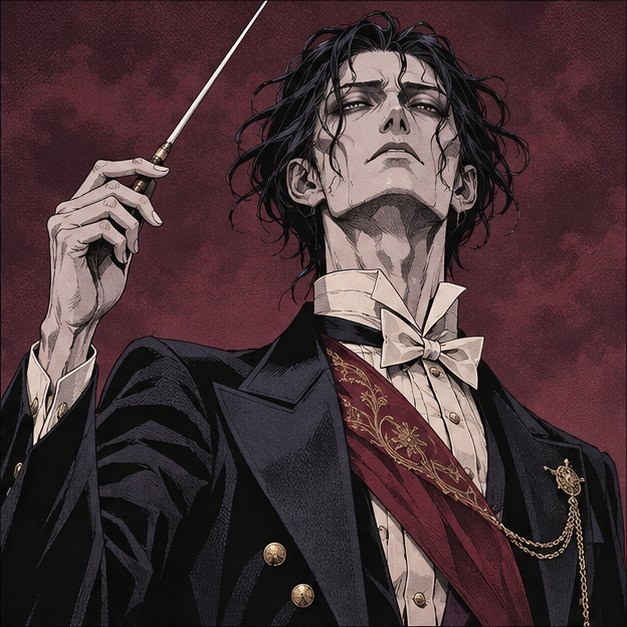
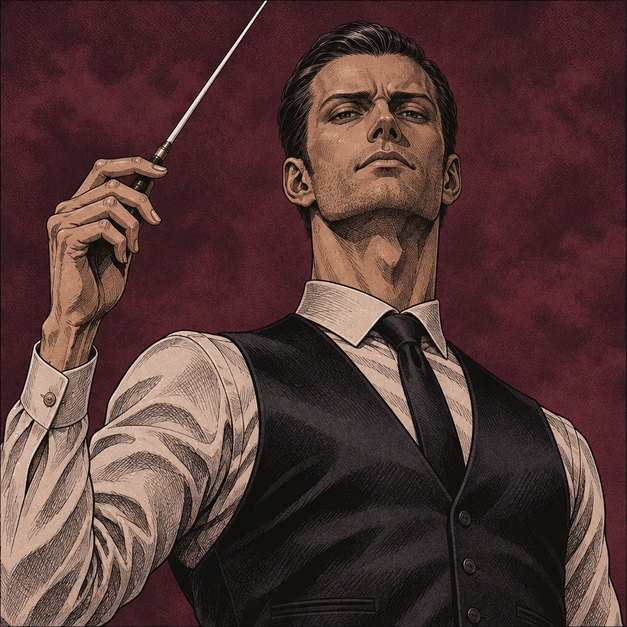
Landing area: Rin before the tower, the words and sign-up on the right
The home page's landing area is now one picture: the tower with Rin standing
at the left and no lettering (hero-rin, made from the key art). The logo, the
headline, the sign-up, the description and the buttons are laid over its dark
right side. On narrow screens Rin and the tower show at the top and the words
follow underneath. The cast pictures of the Conductor and the Porter are
refreshed from their new portraits.

diff --git a/docs/index.html b/docs/index.html
@@ -15,7 +15,7 @@
 <link rel="alternate" type="application/rss+xml" title="Cut Cut Cut dev log" href="feed.xml">
 <link rel="preconnect" href="https://fonts.googleapis.com"><link rel="preconnect" href="https://fonts.gstatic.com" crossorigin>
 <link href="https://fonts.googleapis.com/css2?family=Barlow+Condensed:ital,wght@0,600;0,700;1,800;1,900&family=Inter:wght@400;500;600;700&display=swap" rel="stylesheet">
-<link rel="stylesheet" href="style.css?v=1d2e549a">
+<link rel="stylesheet" href="style.css?v=e51144ca">
 <link rel="stylesheet" href="pondd-character/character.css">
 <script type="importmap">{"imports":{"three":"https://cdn.jsdelivr.net/npm/three@0.160.0/build/three.module.js","three/addons/":"https://cdn.jsdelivr.net/npm/three@0.160.0/examples/jsm/"}}</script>
 <script type="module" src="pondd-character/init.js"></script>
@@ -30,22 +30,24 @@
   <nav class="nav"><a href="game.html">The Game</a><a href="making.html">How It&#x27;s Made</a><a href="media.html">Media</a><a href="timeline.html">Timeline</a><a href="devlog/index.html">Dev Log</a></nav>
 </header>
 <main id="main">
-<section class="hero">
-  <div class="bg" style="background-image:url(media/img/backdrop.jpg)"></div>
+<section class="hero hero-right">
+  <div class="bg" style="background-image:url(media/img/hero-rin.jpg)"></div>
   <div class="hero-in">
-    <img class="hero-logo" src="media/img/logo.png" alt="Cut Cut Cut">
-    <p class="kicker">100 Floors of Zombies</p>
-    <h1>They sold a home where nobody dies. <em>It delivered.</em></h1>
-    <div class="hero-signup" id="signup">
-      <p class="hero-signup-head">Get told when the beta opens</p>
-      <form class="signup in-hero" action="https://app.kit.com/forms/10202332/subscriptions" method="post" target="_blank" novalidate><div class="signup-row"><label class="sr" for="su-email-hero">Email address</label><input id="su-email-hero" type="email" name="email_address" placeholder="you@example.com" autocomplete="email" required><button class="btn red" type="submit"><span>Notify me</span></button></div><fieldset class="signup-phone"><legend>I play on</legend><label class="pick"><input type="radio" name="tags[]" value="25999112" required><span>iPhone</span></label><label class="pick"><input type="radio" name="tags[]" value="25999113" required><span>Android</span></label></fieldset><p class="signup-note">One email when the beta opens and one at launch. We will send a confirmation email first; unsubscribe any time.</p><p class="signup-msg" role="status" aria-live="polite" hidden></p></form>
+    <div class="hero-text">
+      <img class="hero-logo" src="media/img/logo.png" alt="Cut Cut Cut">
+      <p class="kicker">100 Floors of Zombies</p>
+      <h1>They sold a home where nobody dies. <em>It delivered.</em></h1>
+      <div class="hero-signup" id="signup">
+        <p class="hero-signup-head">Get told when the beta opens</p>
+        <form class="signup in-hero" action="https://app.kit.com/forms/10202332/subscriptions" method="post" target="_blank" novalidate><div class="signup-row"><label class="sr" for="su-email-hero">Email address</label><input id="su-email-hero" type="email" name="email_address" placeholder="you@example.com" autocomplete="email" required><button class="btn red" type="submit"><span>Notify me</span></button></div><fieldset class="signup-phone"><legend>I play on</legend><label class="pick"><input type="radio" name="tags[]" value="25999112" required><span>iPhone</span></label><label class="pick"><input type="radio" name="tags[]" value="25999113" required><span>Android</span></label></fieldset><p class="signup-note">One email when the beta opens and one at launch. We will send a confirmation email first; unsubscribe any time.</p><p class="signup-msg" role="status" aria-live="polite" hidden></p></form>
+      </div>
+      <p class="sub">An isometric sword game for iPhone. Rin, a dismissed bodyguard, climbs a sealed 100-floor tower with her family's sword, one room at a time. The residents are still at work. They would like you to stop calling them zombies.</p>
+      <div class="cta">
+        <a class="btn" href="#play"><span>See it in play</span></a>
+        <a class="btn" href="devlog/index.html"><span>Read the dev log</span></a>
+      </div>
+      <div class="status"><i></i> In development · iPhone, landscape · Build 0.1 on TestFlight</div>
     </div>
-    <p class="sub">An isometric sword game for iPhone. Rin, a dismissed bodyguard, climbs a sealed 100-floor tower with her family's sword, one room at a time. The residents are still at work. They would like you to stop calling them zombies.</p>
-    <div class="cta">
-      <a class="btn" href="#play"><span>See it in play</span></a>
-      <a class="btn" href="devlog/index.html"><span>Read the dev log</span></a>
-    </div>
-    <div class="status"><i></i> In development · iPhone, landscape · Build 0.1 on TestFlight</div>
   </div>
 </section>
 

diff --git a/docs/style.css b/docs/style.css
@@ -40,6 +40,18 @@ code { font: 500 0.88em ui-monospace, SFMono-Regular, Menlo, monospace; backgrou
 .hero::after { content: ""; position: absolute; inset: 0; z-index: -1; background: linear-gradient(180deg, rgba(11,10,15,0.15) 0%, rgba(11,10,15,0.05) 35%, rgba(11,10,15,0.82) 78%, var(--ink) 100%); }
 .hero-in { max-width: var(--wrap); margin: 0 auto; padding: 0 24px 64px; width: 100%; }
 .hero-logo { width: min(820px, 92%); margin: 0 0 8px -14px; filter: drop-shadow(0 10px 30px rgba(0,0,0,0.7)); }
+/* the home page's landing area: Rin before the tower fills it, standing at the left; the words and the sign-up are
+   laid over the dark right side of the picture */
+.hero.hero-right { align-items: center; min-height: min(88vh, 860px); }
+.hero-right .bg { background-position: left bottom; } /* (Rin stands at the bottom left: she is kept in view) */
+.hero.hero-right::after { background: linear-gradient(90deg, rgba(11,10,15,0) 0%, rgba(11,10,15,0.10) 30%, rgba(11,10,15,0.80) 52%, rgba(11,10,15,0.90) 100%),
+  linear-gradient(180deg, rgba(11,10,15,0) 70%, var(--ink) 100%); }
+.hero-right .hero-in { max-width: 1500px; padding: 28px 32px 40px; display: flex; justify-content: flex-end; }
+.hero-right .hero-text { width: min(600px, 46%); }
+.hero-right .hero-logo { width: min(380px, 100%); margin: 0 0 6px -6px; }
+.hero.hero-right h1 { font-size: clamp(1.7rem, 2.5vw, 2.5rem); max-width: 24ch; }
+.hero.hero-right p.sub { font-size: 1rem; margin: 0 0 18px; }
+.hero-right .hero-signup { margin: 16px 0 16px; max-width: none; }
 .kicker { font: 700 1.05rem/1 var(--display); text-transform: uppercase; letter-spacing: 0.22em; color: var(--gold); margin: 0 0 14px; }
 .hero h1 { font-size: clamp(2.2rem, 5.2vw, 4.2rem); max-width: 15ch; text-shadow: 0 3px 0 #000; }
 .hero h1 em { font-style: inherit; color: var(--red); }
@@ -246,6 +258,12 @@ a.zoom { display: block; cursor: zoom-in; }
 
 /* ---- narrow screens ---- */
 @media (max-width: 980px) {
+  /* narrow screens: Rin and the tower show at the top, the words follow underneath */
+  .hero.hero-right { min-height: 0; align-items: end; }
+  .hero-right .bg { background-size: 130% auto; background-position: left top; }
+  .hero.hero-right::after { background: linear-gradient(180deg, rgba(11,10,15,0) 0, rgba(11,10,15,0) 52vw, var(--ink) 76vw); }
+  .hero-right .hero-in { padding: 66vw 24px 44px; display: block; }
+  .hero-right .hero-text { width: auto; max-width: 640px; } .hero-right .hero-logo { width: 100%; }
   .split, .reel.wide, .reel.tall { grid-template-columns: 1fr; gap: 26px; } .split.flip > :first-child { order: 0; }
   .cards { grid-template-columns: repeat(2, 1fr); } .facts { grid-template-columns: repeat(2, 1fr); } .facts div:nth-child(2) { border-right: 0; } .facts div:nth-child(-n+2) { border-bottom: 1px solid var(--line); }
   .steps, .shelf { grid-template-columns: 1fr; } .reel.tall figure { max-width: 320px; }

diff --git a/static/style.css b/static/style.css
@@ -40,6 +40,18 @@ code { font: 500 0.88em ui-monospace, SFMono-Regular, Menlo, monospace; backgrou
 .hero::after { content: ""; position: absolute; inset: 0; z-index: -1; background: linear-gradient(180deg, rgba(11,10,15,0.15) 0%, rgba(11,10,15,0.05) 35%, rgba(11,10,15,0.82) 78%, var(--ink) 100%); }
 .hero-in { max-width: var(--wrap); margin: 0 auto; padding: 0 24px 64px; width: 100%; }
 .hero-logo { width: min(820px, 92%); margin: 0 0 8px -14px; filter: drop-shadow(0 10px 30px rgba(0,0,0,0.7)); }
+/* the home page's landing area: Rin before the tower fills it, standing at the left; the words and the sign-up are
+   laid over the dark right side of the picture */
+.hero.hero-right { align-items: center; min-height: min(88vh, 860px); }
+.hero-right .bg { background-position: left bottom; } /* (Rin stands at the bottom left: she is kept in view) */
+.hero.hero-right::after { background: linear-gradient(90deg, rgba(11,10,15,0) 0%, rgba(11,10,15,0.10) 30%, rgba(11,10,15,0.80) 52%, rgba(11,10,15,0.90) 100%),
+  linear-gradient(180deg, rgba(11,10,15,0) 70%, var(--ink) 100%); }
+.hero-right .hero-in { max-width: 1500px; padding: 28px 32px 40px; display: flex; justify-content: flex-end; }
+.hero-right .hero-text { width: min(600px, 46%); }
+.hero-right .hero-logo { width: min(380px, 100%); margin: 0 0 6px -6px; }
+.hero.hero-right h1 { font-size: clamp(1.7rem, 2.5vw, 2.5rem); max-width: 24ch; }
+.hero.hero-right p.sub { font-size: 1rem; margin: 0 0 18px; }
+.hero-right .hero-signup { margin: 16px 0 16px; max-width: none; }
 .kicker { font: 700 1.05rem/1 var(--display); text-transform: uppercase; letter-spacing: 0.22em; color: var(--gold); margin: 0 0 14px; }
 .hero h1 { font-size: clamp(2.2rem, 5.2vw, 4.2rem); max-width: 15ch; text-shadow: 0 3px 0 #000; }
 .hero h1 em { font-style: inherit; color: var(--red); }
@@ -246,6 +258,12 @@ a.zoom { display: block; cursor: zoom-in; }
 
 /* ---- narrow screens ---- */
 @media (max-width: 980px) {
+  /* narrow screens: Rin and the tower show at the top, the words follow underneath */
+  .hero.hero-right { min-height: 0; align-items: end; }
+  .hero-right .bg { background-size: 130% auto; background-position: left top; }
+  .hero.hero-right::after { background: linear-gradient(180deg, rgba(11,10,15,0) 0, rgba(11,10,15,0) 52vw, var(--ink) 76vw); }
+  .hero-right .hero-in { padding: 66vw 24px 44px; display: block; }
+  .hero-right .hero-text { width: auto; max-width: 640px; } .hero-right .hero-logo { width: 100%; }
   .split, .reel.wide, .reel.tall { grid-template-columns: 1fr; gap: 26px; } .split.flip > :first-child { order: 0; }
   .cards { grid-template-columns: repeat(2, 1fr); } .facts { grid-template-columns: repeat(2, 1fr); } .facts div:nth-child(2) { border-right: 0; } .facts div:nth-child(-n+2) { border-bottom: 1px solid var(--line); }
   .steps, .shelf { grid-template-columns: 1fr; } .reel.tall figure { max-width: 320px; }

diff --git a/content/pages/index.html b/content/pages/index.html
@@ -1,20 +1,22 @@
 <!--  | An isometric sword game for iPhone. Rin climbs a 100-floor tower where nobody can die. The dev log, the making-of, videos and art. | page-home -->
-<section class="hero">
-  <div class="bg" style="background-image:url({root}media/img/backdrop.jpg)"></div>
+<section class="hero hero-right">
+  <div class="bg" style="background-image:url({root}media/img/hero-rin.jpg)"></div>
   <div class="hero-in">
-    <img class="hero-logo" src="{root}media/img/logo.png" alt="Cut Cut Cut">
-    <p class="kicker">100 Floors of Zombies</p>
-    <h1>They sold a home where nobody dies. <em>It delivered.</em></h1>
-    <div class="hero-signup" id="signup">
-      <p class="hero-signup-head">Get told when the beta opens</p>
-      {{signup_hero}}
+    <div class="hero-text">
+      <img class="hero-logo" src="{root}media/img/logo.png" alt="Cut Cut Cut">
+      <p class="kicker">100 Floors of Zombies</p>
+      <h1>They sold a home where nobody dies. <em>It delivered.</em></h1>
+      <div class="hero-signup" id="signup">
+        <p class="hero-signup-head">Get told when the beta opens</p>
+        {{signup_hero}}
+      </div>
+      <p class="sub">An isometric sword game for iPhone. Rin, a dismissed bodyguard, climbs a sealed 100-floor tower with her family's sword, one room at a time. The residents are still at work. They would like you to stop calling them zombies.</p>
+      <div class="cta">
+        <a class="btn" href="#play"><span>See it in play</span></a>
+        <a class="btn" href="{root}devlog/index.html"><span>Read the dev log</span></a>
+      </div>
+      <div class="status"><i></i> In development · iPhone, landscape · Build 0.1 on TestFlight</div>
     </div>
-    <p class="sub">An isometric sword game for iPhone. Rin, a dismissed bodyguard, climbs a sealed 100-floor tower with her family's sword, one room at a time. The residents are still at work. They would like you to stop calling them zombies.</p>
-    <div class="cta">
-      <a class="btn" href="#play"><span>See it in play</span></a>
-      <a class="btn" href="{root}devlog/index.html"><span>Read the dev log</span></a>
-    </div>
-    <div class="status"><i></i> In development · iPhone, landscape · Build 0.1 on TestFlight</div>
   </div>
 </section>
 

diff --git a/docs/devlog/an-animated-intro.html b/docs/devlog/an-animated-intro.html
@@ -15,7 +15,7 @@
 <link rel="alternate" type="application/rss+xml" title="Cut Cut Cut dev log" href="../feed.xml">
 <link rel="preconnect" href="https://fonts.googleapis.com"><link rel="preconnect" href="https://fonts.gstatic.com" crossorigin>
 <link href="https://fonts.googleapis.com/css2?family=Barlow+Condensed:ital,wght@0,600;0,700;1,800;1,900&family=Inter:wght@400;500;600;700&display=swap" rel="stylesheet">
-<link rel="stylesheet" href="../style.css?v=1d2e549a">
+<link rel="stylesheet" href="../style.css?v=e51144ca">
 <link rel="stylesheet" href="../pondd-character/character.css">
 <script type="importmap">{"imports":{"three":"https://cdn.jsdelivr.net/npm/three@0.160.0/build/three.module.js","three/addons/":"https://cdn.jsdelivr.net/npm/three@0.160.0/examples/jsm/"}}</script>
 <script type="module" src="../pondd-character/init.js"></script>

diff --git a/docs/devlog/first-playable.html b/docs/devlog/first-playable.html
@@ -15,7 +15,7 @@
 <link rel="alternate" type="application/rss+xml" title="Cut Cut Cut dev log" href="../feed.xml">
 <link rel="preconnect" href="https://fonts.googleapis.com"><link rel="preconnect" href="https://fonts.gstatic.com" crossorigin>
 <link href="https://fonts.googleapis.com/css2?family=Barlow+Condensed:ital,wght@0,600;0,700;1,800;1,900&family=Inter:wght@400;500;600;700&display=swap" rel="stylesheet">
-<link rel="stylesheet" href="../style.css?v=1d2e549a">
+<link rel="stylesheet" href="../style.css?v=e51144ca">
 <link rel="stylesheet" href="../pondd-character/character.css">
 <script type="importmap">{"imports":{"three":"https://cdn.jsdelivr.net/npm/three@0.160.0/build/three.module.js","three/addons/":"https://cdn.jsdelivr.net/npm/three@0.160.0/examples/jsm/"}}</script>
 <script type="module" src="../pondd-character/init.js"></script>

diff --git a/docs/devlog/floor-one-becomes-a-level.html b/docs/devlog/floor-one-becomes-a-level.html
@@ -15,7 +15,7 @@
 <link rel="alternate" type="application/rss+xml" title="Cut Cut Cut dev log" href="../feed.xml">
 <link rel="preconnect" href="https://fonts.googleapis.com"><link rel="preconnect" href="https://fonts.gstatic.com" crossorigin>
 <link href="https://fonts.googleapis.com/css2?family=Barlow+Condensed:ital,wght@0,600;0,700;1,800;1,900&family=Inter:wght@400;500;600;700&display=swap" rel="stylesheet">
-<link rel="stylesheet" href="../style.css?v=1d2e549a">
+<link rel="stylesheet" href="../style.css?v=e51144ca">
 <link rel="stylesheet" href="../pondd-character/character.css">
 <script type="importmap">{"imports":{"three":"https://cdn.jsdelivr.net/npm/three@0.160.0/build/three.module.js","three/addons/":"https://cdn.jsdelivr.net/npm/three@0.160.0/examples/jsm/"}}</script>
 <script type="module" src="../pondd-character/init.js"></script>

diff --git a/docs/devlog/homura-learns-the-forms.html b/docs/devlog/homura-learns-the-forms.html
@@ -15,7 +15,7 @@
 <link rel="alternate" type="application/rss+xml" title="Cut Cut Cut dev log" href="../feed.xml">
 <link rel="preconnect" href="https://fonts.googleapis.com"><link rel="preconnect" href="https://fonts.gstatic.com" crossorigin>
 <link href="https://fonts.googleapis.com/css2?family=Barlow+Condensed:ital,wght@0,600;0,700;1,800;1,900&family=Inter:wght@400;500;600;700&display=swap" rel="stylesheet">
-<link rel="stylesheet" href="../style.css?v=1d2e549a">
+<link rel="stylesheet" href="../style.css?v=e51144ca">
 <link rel="stylesheet" href="../pondd-character/character.css">
 <script type="importmap">{"imports":{"three":"https://cdn.jsdelivr.net/npm/three@0.160.0/build/three.module.js","three/addons/":"https://cdn.jsdelivr.net/npm/three@0.160.0/examples/jsm/"}}</script>
 <script type="module" src="../pondd-character/init.js"></script>

diff --git a/docs/devlog/index.html b/docs/devlog/index.html
@@ -15,7 +15,7 @@
 <link rel="alternate" type="application/rss+xml" title="Cut Cut Cut dev log" href="../feed.xml">
 <link rel="preconnect" href="https://fonts.googleapis.com"><link rel="preconnect" href="https://fonts.gstatic.com" crossorigin>
 <link href="https://fonts.googleapis.com/css2?family=Barlow+Condensed:ital,wght@0,600;0,700;1,800;1,900&family=Inter:wght@400;500;600;700&display=swap" rel="stylesheet">
-<link rel="stylesheet" href="../style.css?v=1d2e549a">
+<link rel="stylesheet" href="../style.css?v=e51144ca">
 <link rel="stylesheet" href="../pondd-character/character.css">
 <script type="importmap">{"imports":{"three":"https://cdn.jsdelivr.net/npm/three@0.160.0/build/three.module.js","three/addons/":"https://cdn.jsdelivr.net/npm/three@0.160.0/examples/jsm/"}}</script>
 <script type="module" src="../pondd-character/init.js"></script>

diff --git a/docs/devlog/it-is-called-cut-cut-cut.html b/docs/devlog/it-is-called-cut-cut-cut.html
@@ -15,7 +15,7 @@
 <link rel="alternate" type="application/rss+xml" title="Cut Cut Cut dev log" href="../feed.xml">
 <link rel="preconnect" href="https://fonts.googleapis.com"><link rel="preconnect" href="https://fonts.gstatic.com" crossorigin>
 <link href="https://fonts.googleapis.com/css2?family=Barlow+Condensed:ital,wght@0,600;0,700;1,800;1,900&family=Inter:wght@400;500;600;700&display=swap" rel="stylesheet">
-<link rel="stylesheet" href="../style.css?v=1d2e549a">
+<link rel="stylesheet" href="../style.css?v=e51144ca">
 <link rel="stylesheet" href="../pondd-character/character.css">
 <script type="importmap">{"imports":{"three":"https://cdn.jsdelivr.net/npm/three@0.160.0/build/three.module.js","three/addons/":"https://cdn.jsdelivr.net/npm/three@0.160.0/examples/jsm/"}}</script>
 <script type="module" src="../pondd-character/init.js"></script>

diff --git a/docs/devlog/on-testflight.html b/docs/devlog/on-testflight.html
@@ -15,7 +15,7 @@
 <link rel="alternate" type="application/rss+xml" title="Cut Cut Cut dev log" href="../feed.xml">
 <link rel="preconnect" href="https://fonts.googleapis.com"><link rel="preconnect" href="https://fonts.gstatic.com" crossorigin>
 <link href="https://fonts.googleapis.com/css2?family=Barlow+Condensed:ital,wght@0,600;0,700;1,800;1,900&family=Inter:wght@400;500;600;700&display=swap" rel="stylesheet">
-<link rel="stylesheet" href="../style.css?v=1d2e549a">
+<link rel="stylesheet" href="../style.css?v=e51144ca">
 <link rel="stylesheet" href="../pondd-character/character.css">
 <script type="importmap">{"imports":{"three":"https://cdn.jsdelivr.net/npm/three@0.160.0/build/three.module.js","three/addons/":"https://cdn.jsdelivr.net/npm/three@0.160.0/examples/jsm/"}}</script>
 <script type="module" src="../pondd-character/init.js"></script>

diff --git a/docs/devlog/rins-deck.html b/docs/devlog/rins-deck.html
@@ -15,7 +15,7 @@
 <link rel="alternate" type="application/rss+xml" title="Cut Cut Cut dev log" href="../feed.xml">
 <link rel="preconnect" href="https://fonts.googleapis.com"><link rel="preconnect" href="https://fonts.gstatic.com" crossorigin>
 <link href="https://fonts.googleapis.com/css2?family=Barlow+Condensed:ital,wght@0,600;0,700;1,800;1,900&family=Inter:wght@400;500;600;700&display=swap" rel="stylesheet">
-<link rel="stylesheet" href="../style.css?v=1d2e549a">
+<link rel="stylesheet" href="../style.css?v=e51144ca">
 <link rel="stylesheet" href="../pondd-character/character.css">
 <script type="importmap">{"imports":{"three":"https://cdn.jsdelivr.net/npm/three@0.160.0/build/three.module.js","three/addons/":"https://cdn.jsdelivr.net/npm/three@0.160.0/examples/jsm/"}}</script>
 <script type="module" src="../pondd-character/init.js"></script>
